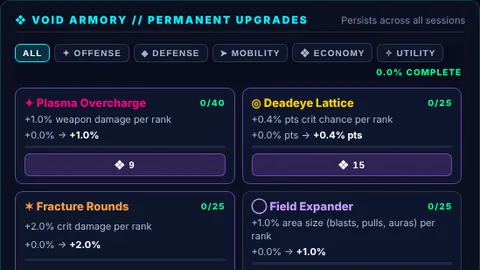
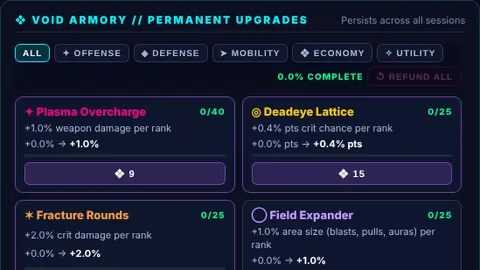
Void Armory: Afterburner Jets (dash distance) replaces Ablative Plating and Phase Buffer (v0.42.5) (#126)
- Afterburner Jets (MOBILITY): +2% dash distance per rank, 25 ranks. Stacks with Phase Dash
  Extender cards and stretches Blink Drive teleports; dash invulnerability stretches with it.
- Ablative Plating (damage taken) and Phase Buffer (post-hit invuln) are retired; existing
  ranks are refunded in full via RETIRED_UPGRADES.
- Pause-menu stats: drop the Damage taken / post-hit invuln rows, add Dash distance.
- v0.42.4 + changelog; tutorial armory still re-captured.

Claude-Session: https://claude.ai/code/session_01K64RjtVJmPPLp3aPiXrL6W

Changed region(s): [[0.0312, 0.237, 0.9688, 0.9778]]

diff --git a/tests/armory.test.js b/tests/armory.test.js
@@ -41,16 +41,16 @@ test('bonuses: each rank adds its single step; reductions are capped', () => {
   const none = armoryBonuses({});
   assert.equal(none.damageMult, 1);
   assert.equal(none.extraBombs, 0);
-  const b = armoryBonuses({ damage: 10, armor: 30, dash: 25, maxHp: 5, critChance: 5, startGold: 3, bombs: 2 });
+  const b = armoryBonuses({ damage: 10, dashDistance: 25, dash: 25, maxHp: 5, critChance: 5, startGold: 3, bombs: 2 });
   assert.ok(Math.abs(b.damageMult - 1.1) < 1e-9);
-  assert.ok(Math.abs(b.damageTakenMult - 0.88) < 1e-9, '30 ranks of plating: -12% damage taken');
+  assert.ok(Math.abs(b.dashDistanceMult - 1.5) < 1e-9, '25 ranks of Afterburner Jets: +50% dash distance');
   assert.ok(Math.abs(b.dashCooldownMult - 0.75) < 1e-9);
   assert.equal(b.bonusHp, 7.5);
   assert.ok(Math.abs(b.critChanceBonus - 0.02) < 1e-9);
   assert.equal(b.startGold, 6);
   assert.equal(b.extraBombs, 2);
   assert.equal(formatArmoryValue(META_BY_ID.damage, 10), '+10%');
-  assert.equal(formatArmoryValue(META_BY_ID.armor, 10), '-4.0%');
+  assert.equal(formatArmoryValue(META_BY_ID.dash, 4), '-4.0%');
   assert.equal(formatArmoryValue(META_BY_ID.maxHp, 3), '+5');
 });
 
@@ -121,8 +121,8 @@ test('REFUND ALL resets every rank and pays back exactly what was spent', () => 
 
 test('every armory stat reaches the run', () => {
   const base = gameWithRanks({});
-  const g = gameWithRanks({ damage: 10, critChance: 10, critDamage: 10, area: 10, maxHp: 10, armor: 20, phase: 5,
-    moveSpeed: 10, dash: 20, coreYield: 10, xpGain: 10, goldGain: 10, startGold: 5, mining: 10, luck: 10, magnet: 10, reroll: 10, miningReach: 10, bombs: 1 });
+  const g = gameWithRanks({ damage: 10, critChance: 10, critDamage: 10, area: 10, maxHp: 10,
+    moveSpeed: 10, dash: 20, dashDistance: 10, coreYield: 10, xpGain: 10, goldGain: 10, startGold: 5, mining: 10, luck: 10, magnet: 10, reroll: 10, miningReach: 10, bombs: 1 });
   const p = g.player, b = base.player;
   const near = (a, e, msg) => assert.ok(Math.abs(a - e) < 1e-6, `${msg}: ${a} vs ${e}`);
   near(p.stats.damage, b.stats.damage * 1.1, 'damage');
@@ -141,14 +141,10 @@ test('every armory stat reaches the run', () => {
   assert.equal(g.gold, 10, 'starting gold');
   near(g.rerollPrice(), Math.round(rerollCost(0) * 0.8), 'reroll discount');
   near(p.goldMult, 1.4, 'gold per vein');
-  // Damage taken and post-hit invulnerability.
-  p.hp = p.maxHp = 100; b.hp = b.maxHp = 100;
-  g.damagePlayer(20); base.damagePlayer(20);
-  near(100 - p.hp, 18.4, 'plating: -8% damage taken');
-  near(p.invuln, b.invuln + 0.05, 'phase buffer');
-  // Dash cooldown.
+  // Dash cooldown and distance (a longer burst at the same speed).
   g.triggerDash(); base.triggerDash();
   near(p.dashCooldown, b.dashCooldown * 0.8, 'dash cooldown');
+  near(p.dashTimer, b.dashTimer * 1.2, 'dash distance');
   // Live tuning recompute keeps the armory bonuses (crit and drill reach included).
   g.applyLiveTuning();
   near(p.stats.critChance, b.stats.critChance + 0.04, 'crit chance after a live retune');
@@ -165,6 +161,24 @@ test('the retired Chronos Capacitor (Autocannon fire rate) refunds every core sp
   assert.equal(save.ranks.fireRate, undefined, 'the upgrade is gone from the save');
   assert.equal(save.ranks.damage, 3);
   assert.equal(normalizeSave(save).cores, 100 + spent, 'a second load does not refund again');
+});
+
+test('the retired Ablative Plating and Phase Buffer refund every core spent on them, once', async () => {
+  const { normalizeSave, retiredRefund, armoryCost, RETIRED_UPGRADES, META_BY_ID } = await import('../js/progression.js');
+  assert.equal(META_BY_ID.armor, undefined);
+  assert.equal(META_BY_ID.phase, undefined);
+  const spent = (upg, rank) => Array.from({ length: rank }, (_, r) => armoryCost(upg, r)).reduce((a, c) => a + c, 0);
+  // Maxed out, each cost about ARMORY_TOP_COST for its last rank (the price curve they were bought on).
+  assert.ok(Math.abs(armoryCost(RETIRED_UPGRADES.armor, 29) - 1000) <= 20);
+  assert.ok(Math.abs(armoryCost(RETIRED_UPGRADES.phase, 14) - 1000) <= 20);
+  const refund = spent(RETIRED_UPGRADES.armor, 12) + spent(RETIRED_UPGRADES.phase, 4);
+  assert.equal(retiredRefund({ armor: 12, phase: 4 }), refund);
+  const save = normalizeSave({ armory: 2, cores: 50, ranks: { dash: 2, armor: 12, phase: 4 } });
+  assert.equal(save.cores, 50 + refund);
+  assert.equal(save.ranks.armor, undefined);
+  assert.equal(save.ranks.phase, undefined);
+  assert.equal(save.ranks.dash, 2);
+  assert.equal(normalizeSave(save).cores, 50 + refund, 'a second load does not refund again');
 });
 
 test('every upgrade\'s last rank costs about ARMORY_TOP_COST cores (or more, never cheaper than before)', async () => {

diff --git a/js/progression.js b/js/progression.js
@@ -36,11 +36,10 @@ const BASE_META_UPGRADES = [
   { id: 'area', cat: 'offense', name: 'Field Expander', icon: '◯', color: '#c79bff', stat: 'area size (blasts, pulls, auras)', per: 0.01, fmt: 'pct', maxRank: 25, baseCost: 18, growth: 1.15 },
   // DEFENSE
   { id: 'maxHp', cat: 'defense', name: 'Aegis Shield Matrix', icon: '◈', color: '#00f3ff', stat: 'max shield', per: 1.5, fmt: 'flat', maxRank: 40, baseCost: 8, growth: 1.11 },
-  { id: 'armor', cat: 'defense', name: 'Ablative Plating', icon: '⬢', color: '#7fd4ff', stat: 'damage taken', per: -0.004, fmt: 'pct', maxRank: 30, baseCost: 18, growth: 1.14 },
-  { id: 'phase', cat: 'defense', name: 'Phase Buffer', icon: '◐', color: '#9d8cff', stat: 'invulnerability after a hit', per: 0.01, fmt: 'sec', maxRank: 15, baseCost: 22, growth: 1.18 },
   // MOBILITY
   { id: 'moveSpeed', cat: 'mobility', name: 'Vector Thrusters', icon: '➤', color: '#00ff88', stat: 'move speed', per: 0.008, fmt: 'pct', maxRank: 25, baseCost: 12, growth: 1.14 },
   { id: 'dash', cat: 'mobility', name: 'Blink Coils', icon: '⇢', color: '#5aa8ff', stat: 'dash cooldown', per: -0.01, fmt: 'pct', maxRank: 25, baseCost: 15, growth: 1.14 },
+  { id: 'dashDistance', cat: 'mobility', name: 'Afterburner Jets', icon: '⇥', color: '#7fd4ff', stat: 'dash distance', per: 0.02, fmt: 'pct', maxRank: 25, baseCost: 15, growth: 1.14 },
   // ECONOMY
   { id: 'coreYield', cat: 'economy', name: 'Deep-Core Extractor', icon: '❖', color: '#d68fff', stat: 'Void Core gain', per: 0.02, fmt: 'pct', maxRank: 40, baseCost: 15, growth: 1.12 },
   { id: 'xpGain', cat: 'economy', name: 'Geom Resonator', icon: '⬡', color: '#6dff9e', stat: 'XP gain', per: 0.01, fmt: 'pct', maxRank: 30, baseCost: 12, growth: 1.13 },
@@ -54,10 +53,9 @@ const BASE_META_UPGRADES = [
   { id: 'miningReach', cat: 'utility', name: 'Extended Claws', icon: '⟟', color: '#7fd4ff', stat: 'drill reach', per: 0.02, fmt: 'pct', maxRank: 15, baseCost: 12, growth: 1.15 },
   { id: 'bombs', cat: 'utility', name: 'Supernova Reserve', icon: '✸', color: '#ffcc00', stat: 'starting Supernova bomb', per: 1, fmt: 'flat', maxRank: 3, baseCost: 400, growth: 3 }
 ];
-export const META_UPGRADES = BASE_META_UPGRADES.map((u) => ({
-  ...u,
-  growth: Math.max(u.growth, Math.pow(ARMORY_TOP_COST / u.baseCost, 1 / Math.max(1, u.maxRank - 1)))
-}));
+// An upgrade's growth steepened so its last rank costs about ARMORY_TOP_COST.
+const topCostGrowth = (u) => Math.max(u.growth, Math.pow(ARMORY_TOP_COST / u.baseCost, 1 / Math.max(1, u.maxRank - 1)));
+export const META_UPGRADES = BASE_META_UPGRADES.map((u) => ({ ...u, growth: topCostGrowth(u) }));
 
 export const META_BY_ID = Object.fromEntries(META_UPGRADES.map((u) => [u.id, u]));
 
@@ -96,10 +94,9 @@ export function armoryBonuses(ranks = {}) {
     critDamageBonus: step('critDamage'),
     areaMult: 1 + step('area'),
     bonusHp: step('maxHp'),
-    damageTakenMult: Math.max(0.5, 1 + step('armor')),
-    hitInvulnBonus: step('phase'),
     moveSpeedMult: 1 + step('moveSpeed'),
     dashCooldownMult: Math.max(0.5, 1 + step('dash')),
+    dashDistanceMult: 1 + step('dashDistance'),
     coreMult: 1 + step('coreYield'),
     xpMult: 1 + step('xpGain'),
     goldMult: 1 + step('goldGain'),
@@ -152,9 +149,13 @@ export function normalizeGuide(value) {
 
 // Armory upgrades that were removed: a save still holding ranks in one gets every core it spent on them
 // back once (the ranks then drop out of the save). Chronos Capacitor boosted only the Autocannon, while
-// every other weapon is built in the run, so it went in v0.27.3.
+// every other weapon is built in the run, so it went in v0.27.3. Ablative Plating (damage taken) and Phase
+// Buffer (post-hit invulnerability) made way for Afterburner Jets (dash distance) in v0.42.5; they were
+// priced on the ARMORY_TOP_COST curve, so their refund is too.
 export const RETIRED_UPGRADES = Object.freeze({
-  fireRate: { baseCost: 12, growth: 1.13, maxRank: 30 }
+  fireRate: { baseCost: 12, growth: 1.13, maxRank: 30 },
+  armor: { baseCost: 18, growth: topCostGrowth({ baseCost: 18, growth: 1.14, maxRank: 30 }), maxRank: 30 },
+  phase: { baseCost: 22, growth: topCostGrowth({ baseCost: 22, growth: 1.18, maxRank: 15 }), maxRank: 15 }
 });
 
 // Cores spent on ranks of retired upgrades in a save's `ranks`.

diff --git a/js/run-overview.js b/js/run-overview.js
@@ -7,7 +7,7 @@
 // player.base snapshot plus the armory multipliers that live on the player), and TOTAL is the ship now.
 // PERMANENT = RUN START vs BASE (Void Armory) and THIS RUN = TOTAL vs RUN START (cards picked this run).
 import { TUNING } from './config.js';
-import { runStartPlayer, runUpgradeLines, HIT_INVULN_BASE } from './upgrades.js';
+import { runStartPlayer, runUpgradeLines } from './upgrades.js';
 import { WEAPON_SCALING as W, blasterFireRate, baseDamage } from './weapon-scaling.js';
 import { weaponBuild, weaponElement, ELEMENT_INFO } from './weapon-levels.js';
 import { WEAPON_BY_ID, PASSIVE_BY_ID, ownedWeapons, ownedPassives, weaponLevel, weaponSlots } from './loadout.js';
@@ -45,9 +45,7 @@ export const STAT_GROUPS = [
     id: 'defense', label: 'DEFENSE', rows: [
       { id: 'maxHp', label: 'Max shield', kind: 'add', fmt: 'flat', get: (s) => s.maxHp },
       // HARDCORE has none (js/modes.js): every snapshot carries the run's mode, so it reads 0 throughout.
-      { id: 'regen', label: 'Shield regen', kind: 'add', fmt: 'hps', get: (s, t) => (modeRules(s).shieldRegen ? t.shieldRegenRate ?? 1.2 : 0) },
-      { id: 'damageTaken', label: 'Damage taken', kind: 'mult', fmt: 'pct', lower: true, get: (s) => s.damageTakenMult ?? 1 },
-      { id: 'invuln', label: 'Invulnerable after a hit', kind: 'add', fmt: 'sec', get: (s) => HIT_INVULN_BASE + (s.hitInvulnBonus || 0) }
+      { id: 'regen', label: 'Shield regen', kind: 'add', fmt: 'hps', get: (s, t) => (modeRules(s).shieldRegen ? t.shieldRegenRate ?? 1.2 : 0) }
     ]
   },
   {
@@ -56,7 +54,9 @@ export const STAT_GROUPS = [
       {
         id: 'dash', label: 'Dash cooldown', kind: 'add', fmt: 'sec', lower: true,
         get: (s, t) => W.dashCooldown(s.weapons?.dashNova || 0, t.dashCooldownBase ?? 1.5) * (s.dashCooldownMult ?? 1)
-      }
+      },
+      // Phase Dash reach (Dash Extender cards x Afterburner Jets), as a multiple of the bare dash.
+      { id: 'dashDistance', label: 'Dash distance', kind: 'mult', fmt: 'pct', get: (s) => W.dashDistanceMult(s.upgradeLevels?.dash_range || 0) * (s.dashDistanceMult ?? 1) }
     ]
   },
   {
@@ -122,8 +122,8 @@ export function statSnapshots(player, { bonuses = {}, tuning = TUNING } = {}) {
   let start;
   if (player.base) {
     // Armory multipliers outside `stats` are set at run start and never touched by cards.
-    const { damageTakenMult, hitInvulnBonus, dashCooldownMult, goldMult, rerollCostMult } = player;
-    start = bare({ damageTakenMult, hitInvulnBonus, dashCooldownMult, goldMult, rerollCostMult, stats: player.base.stats, maxHp: player.base.maxHp });
+    const { dashCooldownMult, dashDistanceMult, goldMult, rerollCostMult } = player;
+    start = bare({ dashCooldownMult, dashDistanceMult, goldMult, rerollCostMult, stats: player.base.stats, maxHp: player.base.maxHp });
     start.weapons = player.base.weapons || {};
   } else {
     start = bare(runStartPlayer(bonuses, tuning));

diff --git a/tests/run-overview.test.js b/tests/run-overview.test.js
@@ -23,11 +23,11 @@ function freshGame(ranks = {}) {
 }
 
 test('resetRun builds the ship from runStartPlayer (TUNING + Void Armory)', () => {
-  const ranks = { damage: 4, maxHp: 3, moveSpeed: 2, bombs: 1, armor: 6 };
+  const ranks = { damage: 4, maxHp: 3, moveSpeed: 2, bombs: 1, dashDistance: 6 };
   const g = freshGame(ranks);
   const start = runStartPlayer(armoryBonuses(ranks));
   assert.deepEqual(g.player.base.stats, start.stats);
-  for (const key of ['maxHp', 'damageTakenMult', 'hitInvulnBonus', 'dashCooldownMult', 'goldMult', 'rerollCostMult']) assert.equal(g.player[key], start[key], key);
+  for (const key of ['maxHp', 'dashCooldownMult', 'dashDistanceMult', 'goldMult', 'rerollCostMult']) assert.equal(g.player[key], start[key], key);
   assert.equal(g.player.bombs, 3);
   assert.equal(runStartPlayer({}).stats.damage, TUNING.baseDamage, 'no bonuses: the bare base');
 });
@@ -45,7 +45,7 @@ test('a fresh ship with no armory ranks: BASE = TOTAL and nothing in PERMANENT o
 });
 
 test('Void Armory ranks land in PERMANENT; cards picked this run land in THIS RUN', () => {
-  const g = freshGame({ damage: 10, maxHp: 5, critChance: 5, moveSpeed: 5, armor: 10, dash: 10 });
+  const g = freshGame({ damage: 10, maxHp: 5, critChance: 5, moveSpeed: 5, dashDistance: 10, dash: 10 });
   const p = g.player;
   let r = rowsById(p);
   assert.equal(r.damage.base, String(TUNING.baseDamage));
@@ -54,8 +54,8 @@ test('Void Armory ranks land in PERMANENT; cards picked this run land in THIS RU
   assert.equal(r.critChance.base, '5%');
   assert.equal(r.critChance.permanent, '+2%');
   assert.equal(r.moveSpeed.permanent, '+4%');
-  assert.equal(r.damageTaken.permanent, '−4%');
-  assert.equal(r.damageTaken.up.permanent, true, 'less damage taken is good');
+  assert.equal(r.dashDistance.permanent, '+20%');
+  assert.equal(r.dashDistance.up.permanent, true, 'a longer dash is good');
   assert.equal(r.dash.permanent, '−0.15 s');
   for (const id of ['damage', 'maxHp', 'critChance', 'moveSpeed']) assert.equal(r[id].run, '—', `${id}: no cards yet`);
 

diff --git a/js/upgrade-cards.js b/js/upgrade-cards.js
@@ -256,8 +256,8 @@ export const STAT_ROWS = [
   { id: 'maxHp', label: 'Max shield', get: (p) => p.maxHp, fmt: int, headline: 'count', unit: 'MAX SHIELD' },
   { id: 'hp', label: 'Shield now', get: (p) => p.hp, fmt: int },
   { id: 'dashCooldown', label: 'Dash cooldown', get: (p) => W.dashCooldown(lv(p, 'dashNova'), TUNING.dashCooldownBase ?? 1.5), fmt: secs },
-  { id: 'dashDistance', label: 'Dash distance', get: (p) => (blinkRank(p) > 0 ? null : W.dashDistance(p.stats.moveSpeed, dashRank(p))), fmt: int, headline: 'count', unit: 'PX DASH' },
-  { id: 'blinkDistance', label: 'Blink distance', get: (p) => (blinkRank(p) > 0 ? W.blinkDistance(blinkRank(p)) * W.dashDistanceMult(dashRank(p)) : null), fmt: int, headline: 'count', unit: 'PX BLINK', newText: (a) => `DASH BLINKS // ${a} PX` },
+  { id: 'dashDistance', label: 'Dash distance', get: (p) => (blinkRank(p) > 0 ? null : W.dashDistance(p.stats.moveSpeed, dashRank(p)) * (p.dashDistanceMult ?? 1)), fmt: int, headline: 'count', unit: 'PX DASH' },
+  { id: 'blinkDistance', label: 'Blink distance', get: (p) => (blinkRank(p) > 0 ? W.blinkDistance(blinkRank(p)) * W.dashDistanceMult(dashRank(p)) * (p.dashDistanceMult ?? 1) : null), fmt: int, headline: 'count', unit: 'PX BLINK', newText: (a) => `DASH BLINKS // ${a} PX` },
   { id: 'novaRadius', label: 'Dash nova radius', get: (p) => owned(p, 'dashNova', (l) => novaRadius(p, l)), fmt: int },
   { id: 'novaDamage', label: 'Dash nova damage', get: (p) => owned(p, 'dashNova', (l) => weaponDamage(p, 'nova', l)), fmt: int },
 

diff --git a/js/main.js b/js/main.js
@@ -1969,8 +1969,9 @@ export class Game {
     const p = this.player;
     if (p.dashCooldown > 0) return;
 
-    // Phase Dash Extender cards stretch the burst (and a blink), with the invulnerability to match.
-    const reach = W.dashDistanceMult(Math.min(UPGRADE_BY_ID.dash_range.maxLevel, p.upgradeLevels?.dash_range || 0));
+    // Phase Dash Extender cards and the Void Armory's Afterburner Jets stretch the burst (and a blink),
+    // with the invulnerability to match.
+    const reach = W.dashDistanceMult(Math.min(UPGRADE_BY_ID.dash_range.maxLevel, p.upgradeLevels?.dash_range || 0)) * (p.dashDistanceMult ?? 1);
     p.dashTimer = W.dashDuration * reach;
     p.dashCooldown = W.dashCooldown(p.weapons.dashNova || 0, TUNING.dashCooldownBase ?? 1.5) * (p.dashCooldownMult ?? 1);
     p.dashCooldownDuration = p.dashCooldown;
@@ -2459,11 +2460,10 @@ export class Game {
   // `by`: the enemy kind that dealt it (run stats: damage taken and cause of death).
   damagePlayer(dmg, shake = 16, by = null) {
     const p = this.player;
-    dmg *= p.damageTakenMult ?? 1; // Void Armory: Ablative Plating
     this.runStats?.playerHit(by || 'unknown', Math.min(dmg, Math.max(0, p.hp)), p.hp > 0 && p.hp - dmg <= 0);
     p.shieldFlash = 1;
     p.hp -= dmg;
-    p.invuln = HIT_INVULN_BASE + (p.hitInvulnBonus || 0);
+    p.invuln = HIT_INVULN_BASE;
     this.multiplier = Math.max(1.0, this.multiplier * 0.75);
     this.addShake(shake);
     this.chromaFlash = 0.5;

diff --git a/js/upgrades.js b/js/upgrades.js
@@ -766,7 +766,7 @@ export function acquireWeapon(player, id) {
   return true;
 }
 
-// Seconds of invulnerability after a shield hit, before the Void Armory's Phase Buffer.
+// Seconds of invulnerability after a shield hit.
 export const HIT_INVULN_BASE = 0.4; // 0.65 before v0.32: ramming through whole packs cost only a hit or two a second
 
 // The ship at run start, before any card: TUNING's base values with the Void Armory bonuses
@@ -781,11 +781,10 @@ export function runStartPlayer(bonuses = {}, t = TUNING) {
     hp: maxHp,
     maxHp,
     bombs: 2 + (bonuses.extraBombs || 0),
-    // Void Armory multipliers that live outside `stats` (damage taken, post-hit invulnerability, dash
-    // cooldown, gold per vein, reroll cost).
-    damageTakenMult: bonuses.damageTakenMult ?? 1,
-    hitInvulnBonus: bonuses.hitInvulnBonus || 0,
+    // Void Armory multipliers that live outside `stats` (dash cooldown and distance, gold per vein,
+    // reroll cost).
     dashCooldownMult: bonuses.dashCooldownMult ?? 1,
+    dashDistanceMult: bonuses.dashDistanceMult ?? 1,
     goldMult: bonuses.goldMult ?? 1,
     rerollCostMult: bonuses.rerollCostMult ?? 1,
     stats: {

diff --git a/js/changelog.js b/js/changelog.js
@@ -12,6 +12,15 @@ export const NOTE_TYPES = Object.freeze(['new', 'balance', 'fix']);
 
 export const CHANGELOG = Object.freeze([
   {
+    version: '0.42.5',
+    date: '2026-10-20',
+    title: 'Afterburner Jets',
+    notes: [
+      { type: 'new', text: 'New Void Armory upgrade, Afterburner Jets: +2% dash distance per rank (up to +50%). It stacks with Phase Dash Extender cards and stretches Blink Drive teleports too.' },
+      { type: 'balance', text: 'Ablative Plating and Phase Buffer leave the Void Armory. Every Void Core you spent on them is refunded.' }
+    ]
+  },
+  {
     version: '0.42.4',
     date: '2026-10-20',
     title: 'Shatter & Sparks',

diff --git a/tests/game-modes.test.js b/tests/game-modes.test.js
@@ -80,7 +80,7 @@ test('HARDCORE: base shield (no Aegis Shield Matrix), other armory upgrades stil
   assert.equal(hc.player.hp, BASE_SHIELD);
   assert.equal(hc.player.base.maxHp, BASE_SHIELD);
   assert.equal(hc.player.stats.damage, normal.player.stats.damage, 'damage armory applies');
-  assert.equal(hc.player.damageTakenMult, normal.player.damageTakenMult, 'armor armory applies');
+  assert.equal(hc.player.dashDistanceMult, normal.player.dashDistanceMult, 'dash distance armory applies');
   assert.equal(hc.player.bombs, normal.player.bombs);
   assert.equal(hc.player.mode, 'hardcore');
 

diff --git a/js/version.js b/js/version.js
@@ -7,7 +7,7 @@
 // tests/changelog.test.js fails if the two disagree.
 // A minor bump also re-checks the first-run tutorial slides (js/tutorial.js, TUTORIAL_REVIEWED_FOR).
 
-export const GAME_VERSION = '0.42.4';
+export const GAME_VERSION = '0.42.5';
 
 // First release whose runs carry a version. Runs from before it live only on the all-time board,
 // where they are labelled LEGACY_VERSION_LABEL ("pre-0.9").

diff --git a/README.md b/README.md
@@ -95,7 +95,7 @@ Versions 0.1.0–0.8.1 were assigned after the fact from the merge history: 0.1.
 6. **Global + Local Highscore Board & Void Armory Meta-Progression (`js/progression.js`, `js/leaderboard.js`)**
    - Custom **Pilot Callsign / Name Entry** on Title and Game Over screens.
    - **GLOBAL** tab (default): the shared top 50 of everyone who plays, from `/api/scores` (see [Global leaderboard](#global-leaderboard)). It opens on the shared **ALL-TIME** board, which never resets: every row is tagged with the game version the run was flown on (`pre-0.9` for runs from before versioning). A compact **VERSION** selector under the callsign can filter the board to a single version. Every finished run is submitted automatically under the callsign with `GAME_VERSION`, your own runs are highlighted, and the game-over screen shows **GLOBAL RANK #n · v0.X.Y**. **MY RUNS** tab: this device's top 8 (`localStorage`), which is also what GLOBAL falls back to, with an OFFLINE note, when the API can't be reached. Tabs and version buttons are plain buttons, so mouse, keyboard and the controller's d-pad + A all work.
-   - Spend **Void Cores (❖)** harvested during runs on the **Void Armory**: 20 permanent single-stat upgrades in 5 categories (OFFENSE, DEFENSE, MOBILITY, ECONOMY, UTILITY), persisted in `localStorage` (`vectra_survivor_save_v2`). Data lives in `META_UPGRADES` (`js/progression.js`): each has a small `per` step per rank, up to 40 ranks, and rank n costs `round(baseCost × growth^n)`. `armoryBonuses()` turns ranks into run modifiers (damage, Autocannon fire rate, crit chance/damage, area, max shield, damage taken (floor 50%), post-hit invulnerability, move speed, dash cooldown, Void Core gain, XP, gold per vein, starting gold, mining speed/reach, luck, pickup radius, reroll cost, starting bombs). Maxing everything costs ~68k cores, about 70–95 hours of typical play at ~700 cores/hour before Void Core Gain.
+   - Spend **Void Cores (❖)** harvested during runs on the **Void Armory**: 20 permanent single-stat upgrades in 5 categories (OFFENSE, DEFENSE, MOBILITY, ECONOMY, UTILITY), persisted in `localStorage` (`vectra_survivor_save_v2`). Data lives in `META_UPGRADES` (`js/progression.js`): each has a small `per` step per rank, up to 40 ranks, and rank n costs `round(baseCost × growth^n)`. `armoryBonuses()` turns ranks into run modifiers (damage, Autocannon fire rate, crit chance/damage, area, max shield, move speed, dash cooldown and distance, Void Core gain, XP, gold per vein, starting gold, mining speed/reach, luck, pickup radius, reroll cost, starting bombs). Maxing everything costs ~68k cores, about 70–95 hours of typical play at ~700 cores/hour before Void Core Gain.
    - **REFUND ALL** (armory tab row, title and game-over screens): the first click arms it (the button turns gold and shows the refund), a second click within 4 s sets every rank to 0 and pays back every core spent on them (`armorySpent()` / `ProgressionManager.refundAll()`). Greyed out with nothing to refund.
    - **Armory resets**: `ARMORY_VERSION` (2) is stored in the save. A save from an older armory is reset once on load (ranks to 0, cores to `STARTING_CORES`; callsign, local high scores, runs played and Field Guide kept) and the title shows a one-time "VOID ARMORY REBUILT" notice. Bump `ARMORY_VERSION` to reset everyone again.
 

diff --git a/docs/BALANCE_REPORT.md b/docs/BALANCE_REPORT.md
@@ -237,3 +237,5 @@ Survival for the average bot is about where it was (median 2:42–5:03 by strate
 | Supernova Reserve | +1 starting bomb | 3 | 400 | 3600 | 5.2k |
 
 Total ~68k cores. Rough time to complete at ~700 cores/hour (rising to ~1,200/hour with Deep-Core Extractor maxed): 25% in ~8 h, 50% in ~25 h, 100% in ~70–95 h. Early ranks cost 8–22 cores, so a first run buys something.
+
+Later changes: Chronos Capacitor was retired in v0.27.3; Ablative Plating and Phase Buffer were retired in v0.42.5 for **Afterburner Jets** (+2% dash distance per rank, 25 ranks, first rank 15 cores). Retired ranks are refunded in full (`RETIRED_UPGRADES` in `js/progression.js`).
